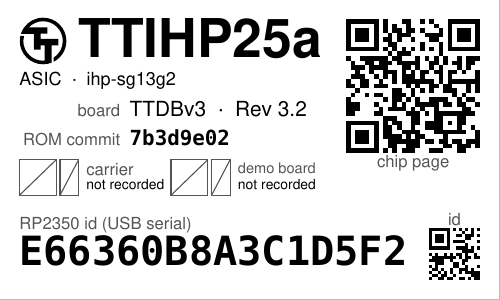
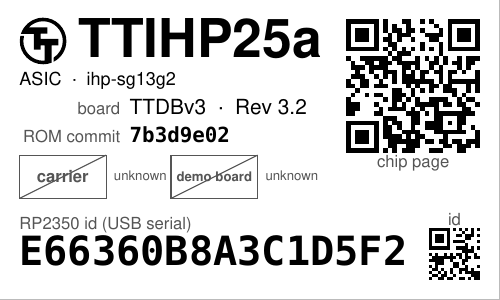
labels: each Tiny Tapeout swatch is a sample of its board
The boxes were a wide soldermask one beside a narrow silkscreen one, which
said what the two colours are but not what the board looks like. Each board
now gets one box, filled with its soldermask and lettered in its silkscreen
exactly as the board itself is lettered -- "carrier" in white on pink, or
in black on yellow -- so the silkscreen colour is demonstrated where it
actually appears. The two colours are named beside it, soldermask over
silkscreen, for the reader whose eye the print cannot be trusted by.

A TT05 kit reads as a yellow carrier lettered in black beside a black demo
board lettered in white. A board whose colours the table does not record
keeps an empty box, struck through, captioned "unknown".

Claude-Session: https://claude.ai/code/session_017ibyTnuBCnNY7ACKAkdRiT

Changed region(s): [[0.03, 0.42, 0.66, 0.69], [0.15, 0.3, 0.42, 0.39], [0.48, 0.33, 0.63, 0.39]]

diff --git a/src/rpi_hwid/labels.py b/src/rpi_hwid/labels.py
@@ -590,41 +590,37 @@ def draw_usb(lab, dev):
     lab.fit(PAD, y + CAPTION * 0.72 + cap_gap, dev.mac, MONO, mac_size, LABEL_W - 2 * PAD)
 
 
-def swatch(lab, x, y, w, h, colour):
-    """One colour-identification box: a keyline rectangle filled with the
-    colour, or left empty and struck through when it is not recorded. The
-    keyline matters: a white soldermask is a white box on white stock."""
+def swatch(lab, x, y, w, h, mask, silk=None, label=""):
+    """A sample of a board: a keyline box filled with the soldermask
+    colour and lettered, like the board itself, in the silkscreen colour.
+    A colour that is not recorded leaves the box empty and struck through,
+    and the lettering falls back to grey. The keyline matters -- a white
+    soldermask is a white box on white stock."""
     c = lab.c
     px, py = lab.pt(x, y + h)
     c.setStrokeColor(GREY)
     c.setLineWidth(0.4)
-    if colour:
-        c.setFillColor(HexColor(colour))
+    if mask:
+        c.setFillColor(HexColor(mask))
         c.rect(px, py, w, h, stroke=1, fill=1)
     else:
         c.rect(px, py, w, h, stroke=1, fill=0)
         c.line(px, py, px + w, py + h)      # struck through: nothing recorded
     c.setStrokeColor(black)
     c.setFillColor(black)
-
-
-def swatch_pair(lab, x, y, w, h, mask, silk):
-    """A board's two colours side by side: the soldermask in a wide box and
-    the silkscreen printed on it in a narrow one, in that order and in that
-    proportion, so which box is which needs no caption of its own. Returns
-    the width the pair took."""
-    mask_w = w * 0.62
-    swatch(lab, x, y, mask_w, h, mask)
-    swatch(lab, x + mask_w + 0.5 * mm, y, w - mask_w - 0.5 * mm, h, silk)
-    return w
+    if label:
+        size = lab.fitted_size(label, SANS_BOLD, 6, w - 1 * mm, min_size=4.5)
+        lab.text(x + w / 2, y + (h - size * 0.72) / 2, label, SANS_BOLD, size,
+                 align="centre", color=HexColor(silk) if silk else GREY)
 
 
 def draw_tinytapeout(lab, tt):
     """Left: the Tiny Tapeout mark beside the shuttle as the headline, the
     chip's kind and PDK under it, then the demo board and the ROM commit as
-    captioned rows, then a colour box each for the chip carrier and the
-    demo board (board colour, the colour's name beside it) so the right
-    board is picked out of a drawer. Right: a QR that opens the chip's
+    captioned rows, then a sample of each board -- the chip carrier and
+    the demo board -- filled with its soldermask and lettered in its
+    silkscreen, with both colours named beside it, so the right board is
+    picked out of a drawer. Right: a QR that opens the chip's
     page on tinytapeout.com. Foot: the demo board's RP2 unique id, its USB
     serial, the one thing on it that cannot change, set like the FPGA
     label's DNA, with its own small QR at the right end of the row."""
@@ -667,7 +663,7 @@ def draw_tinytapeout(lab, tt):
     lab.fit(tx, y, tt.headline, SANS_BOLD, head_size, col_w - (tx - x))
     y += head_cap + 1.2 * mm
     lab.text(x, y, tt.subtitle, SANS, 6.5)          # fixed size, like the Pi subtitle
-    row = 3.7 * mm
+    row = 3.5 * mm
     y += row
     cap_w = 14 * mm
     lab.captioned(x, x + cap_w, y, "board", tt.demoboard_text, SANS, 7.5, col_w - cap_w)
@@ -682,23 +678,30 @@ def draw_tinytapeout(lab, tt):
         lab.captioned(x, x + cap_w, y, "ROM", "not read", SANS, 7.5, col_w - cap_w)
     y += row
 
-    # The colours, so a board can be matched to its label across the bench:
-    # for each of the two boards, its soldermask and the silkscreen printed
-    # on it, with the caption over the two colours named in the same order.
-    sw, sh = 7.5 * mm, 4.5 * mm
-    line = CAPTION * 0.72 + 0.6 * mm
-    for i, (cap, mask, silk, names) in enumerate((
+    # The colours, so a board can be matched to its label across the bench.
+    # Each box is a sample of the board it names: filled with that board's
+    # soldermask and lettered in its silkscreen, the way the board itself
+    # is. Beside it the two colours in words, soldermask over silkscreen,
+    # for the reader whose eye the print cannot be trusted by.
+    sw, sh = 11 * mm, 5.5 * mm
+    line = CAPTION * 0.72 + 0.5 * mm
+    for i, (cap, mask, silk, mask_name, silk_name) in enumerate((
             ("carrier", tt.chip_colour, tt.chip_silk,
-             colour_names(tt.chip_colour_name, tt.chip_silk_name)),
+             tt.chip_colour_name, tt.chip_silk_name),
             ("demo board", tt.demoboard_colour, tt.demoboard_silk,
-             colour_names(tt.demoboard_colour_name, tt.demoboard_silk_name)))):
+             tt.demoboard_colour_name, tt.demoboard_silk_name))):
         sx = x + i * (col_w / 2)
-        swatch_pair(lab, sx, y, sw, sh, mask, silk)
+        swatch(lab, sx, y, sw, sh, mask, silk, cap)
         tx2 = sx + sw + 1 * mm
         tw = col_w / 2 - sw - 1.5 * mm
-        ty = y + (sh - 2 * line + 0.6 * mm) / 2
-        lab.fit(tx2, ty, cap, SANS, CAPTION, tw, min_size=5, color=GREY)
-        lab.fit(tx2, ty + line, names, SANS, CAPTION, tw, min_size=5)
+        if mask_name or silk_name:
+            ty = y + (sh - 2 * line + 0.5 * mm) / 2
+            lab.fit(tx2, ty, mask_name or "?", SANS, CAPTION, tw, min_size=4.5)
+            lab.fit(tx2, ty + line, silk_name or "?", SANS, CAPTION, tw, min_size=4.5,
+                    color=GREY)
+        else:
+            lab.fit(tx2, y + (sh - CAPTION * 0.72) / 2, "unknown", SANS, CAPTION,
+                    tw, min_size=4.5, color=GREY)
 
 
 
@@ -850,13 +853,6 @@ def demoboard_text(detected, version):
         rev = version.lstrip("vV")
     parts = [p for p in (name, ("Rev " + rev) if rev else "") if p]
     return "  ·  ".join(parts) if parts else "not read"
-
-
-def colour_names(mask, silk):
-    """The two colours of one board, in the order their boxes are drawn."""
-    if mask and silk:
-        return "%s/%s" % (mask, silk)
-    return mask or silk or "not recorded"
 
 
 def tinytapeout_records(docs):

diff --git a/docs/LABELS.md b/docs/LABELS.md
@@ -112,15 +112,15 @@ and a line to write the DNA on when it has not been read yet.
 
 The shuttle is the headline, with ASIC or FPGA breakout and the PDK under it; then
 the demo board as the SDK detected it with the revision that shipped in that kit,
-and the chip ROM's commit. Then four colour boxes, so the right board is picked
-out of a drawer: for the chip carrier and for the demo board, a wide box in the
-board's soldermask and a narrow one in the silkscreen printed on it, in that
-proportion so no caption is needed to tell them apart, with both colours named
-beside. A TT05 kit, say, is a yellow carrier lettered in black on a black demo
-board lettered in white. A box is left empty and struck through where the colour
-is not recorded. The large QR opens the chip's page on tinytapeout.com; the demo
-board's RP2 unique id — its USB serial — runs along the foot with a small QR of
-its own.
+and the chip ROM's commit. Then a sample of each board, so the right one is
+picked out of a drawer: a box filled with that board's soldermask and lettered,
+the way the board itself is, in its silkscreen colour — so the box shows both
+colours at once — with the two named beside it, soldermask over silkscreen, for
+the reader whose eye the print cannot be trusted by. A TT05 kit, say, is a
+yellow carrier lettered in black beside a black demo board lettered in white. A
+box whose colours are not recorded is left empty and struck through. The large
+QR opens the chip's page on tinytapeout.com; the demo board's RP2 unique id —
+its USB serial — runs along the foot with a small QR of its own.
 
 <p>
 <img src="https://raw.githubusercontent.com/mithro/rpi-hwid/main/docs/examples/tinytapeout.png" alt="TT06 chip on a TT06+ demo board" width="49%">
